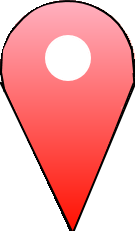
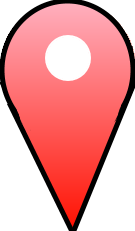
Fixed xss, added marker to event location selection and added event expiring

Changed region(s): [[0.0, 0.0, 1.0, 1.0]]

diff --git a/Scripts/script.js b/Scripts/script.js
@@ -4,6 +4,8 @@ var db = firebase.firestore();
 
 const mymap = L.map("mapid").setView([65.03777732, 25.45506727], 13);
 
+let tempMarker;
+
 L.tileLayer(
   "https://api.mapbox.com/styles/v1/{id}/tiles/{z}/{x}/{y}?access_token={accessToken}",
   {
@@ -120,9 +122,6 @@ function addInforToCards() {
     marker.bindPopup(popUpText);
 
     marker.addEventListener("click", function () {
-      if ($("#list-items").css("display") == "none") {
-        swapTab();
-      }
       mymap.flyTo([placeId["longitude"], placeId["latitude"]], 16);
       element.scrollIntoView({ behavior: "smooth", block: "start" });
       console.log(marker.collapseIndex);
@@ -256,22 +255,31 @@ function createModal(i) {
 }
 
 function updateEvents() {
-  var starIcon = L.icon({
+  let eventMarkerIcon = L.icon({
     iconUrl: "./pictures/marker.png",
     iconSize: [25, 42], // size of the icon
   });
   let i = 0;
   const list = document.getElementById("events");
 
-  db.collection("Events").onSnapshot((snapshot) => {
+  db.collection("Events").where("timestamp", ">", firebase.firestore.Timestamp.now()).onSnapshot((snapshot) => {
     snapshot.docChanges().forEach((event) => {
       const docData = event.doc.data();
-      const eventName = docData.name;
-      const eventDescription = docData.description;
-      const longitude = docData.latitude;
-      const latitude = docData.longitude;
-      const timestamp = new Date(docData.timestamp).toLocaleString();
+      let eventName = docData.name;
+      let eventDescription = docData.description;
+      const timestamp = docData.timestamp.toDate().toLocaleString();
       const date = timestamp.split(" ")[0];
+      let longitude = docData.latitude;
+      let latitude = docData.longitude;
+      if(isNaN(longitude) && isNaN(latitude)){
+        longitude = 65.0115;
+        latitude = 25.468;
+        ;
+      }
+      eventName = eventName.replace(/\s|\n|&nbsp;/g, ' ');
+      eventName = eventName.replace(/<[^>]+>/gm, '');
+      eventDescription = eventDescription.replace(/\s|\n|&nbsp;/g, ' ');
+      eventDescription = eventDescription.replace(/<[^>]+>/gm, '');
 
       const listItem = document.createElement("li");
       const card = `
@@ -289,20 +297,18 @@ function updateEvents() {
             `;
       listItem.innerHTML = card;
 
-      let marker = L.marker([longitude, latitude], { icon: starIcon }).addTo(
+      let marker = L.marker([longitude, latitude], { icon: eventMarkerIcon }).addTo(
         mymap
       );
 
       marker.placeName = eventName;
       marker.collapseIndex = "#eventCollapse" + i;
       const popUpText =
-        "<h3>" + eventName + "</h3>" + "<p>" + eventDescription + "</p>";
+        `<h3>${eventName}</h3>
+        <p">${eventDescription}</p>`;
       marker.bindPopup(popUpText);
 
       marker.addEventListener("click", function () {
-        if ($("#events").css("display") == "none") {
-          swapTab();
-        }
         mymap.flyTo([longitude, latitude], 16);
         listItem.scrollIntoView({ behavior: "smooth", block: "start" });
         console.log(marker.collapseIndex);
@@ -350,9 +356,16 @@ function showEvents() {
 }
 
 function selectCoordinates() {
+  let tempMarkerIcon = L.icon({
+    iconUrl: "./pictures/tempmarker.png",
+    iconSize: [25, 42],
+  });
+  
   $("#eventWindow").modal("hide");
-  $(".toast").toast("show");
   let active = true;
+  if (tempMarker != undefined) {
+    mymap.removeLayer(tempMarker);
+  };
   document.getElementById("mapid").style.cursor =
     "url('/pictures/pin_icon.svg'), auto";
 
@@ -365,6 +378,7 @@ function selectCoordinates() {
         let lng = coord.lng;
         $("#latitude").text(lat);
         $("#longitude").text(lng);
+        tempMarker = new L.marker([lat,lng], {icon: tempMarkerIcon}).addTo(mymap);
         $("#eventWindow").modal("show");
         active = false;
         document.getElementById("mapid").style.cursor = "auto";
@@ -394,7 +408,7 @@ function addEvent() {
       description: eventDescription,
       longitude: longitude,
       latitude: latitude,
-      timestamp: timestamp,
+      timestamp: new Date(timestamp),
     });
     //empties forms
     document.getElementById("eventName").value = "";
@@ -402,6 +416,7 @@ function addEvent() {
     document.getElementById("longitude").innerHTML = "";
     document.getElementById("latitude").innerHTML = "";
     $("#eventWindow").modal("hide");
+    mymap.removeLayer(tempMarker);
   }
 }
 
@@ -432,8 +447,9 @@ $("#addEvent").append(`
       <button class="eventButtons btn btn-primary" onclick="selectCoordinates()">Select location</button>
       <p id="eventDateText">Event date</p>
       <input type="datetime-local" id="meeting-time"
-       name="meeting-time" value="2021-06-12T19:30"
-       min="2021-04-07T00:00" max="2030-06-14T00:00">
+       name="meeting-time"
+       min="2021-04-07T00:00" 
+       max="2030-06-14T00:00">
       <textarea
         name="event"
         id="eventDescription"
